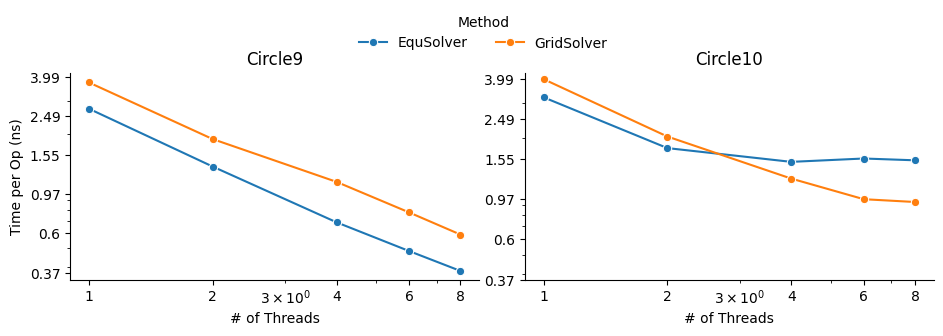
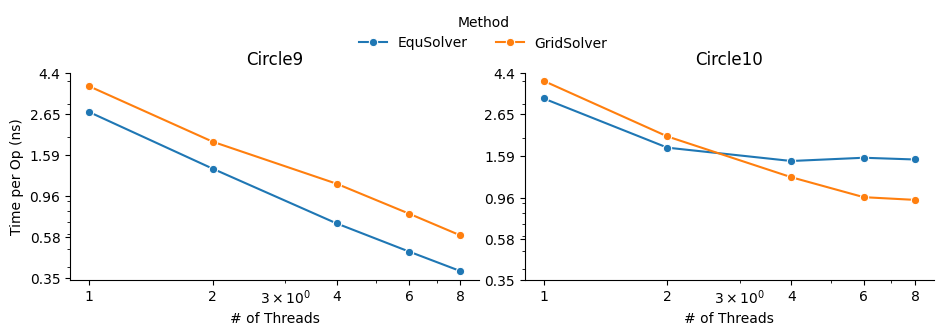
mpi ablation study plot and table

diff --git a/docs/image/plot.py b/docs/image/plot.py
@@ -117,8 +117,11 @@ def ablation(backend, new_col):
   base = []
   for i in [1, 2, 3, 4]:
     base.append(parse_table(raw[i], backend, new_col))
-  tmin = min([i[1] for i in base])
-  tmax = max([i[2] for i in base])
+  # tmin = min([i[1] for i in base])
+  # tmax = max([i[2] for i in base])
+  # print(tmin, tmax)
+  tmin = 0.35
+  tmax = 4.4
   data = pd.DataFrame(data)
   print(data)
   g = sns.FacetGrid(
@@ -151,3 +154,4 @@ def ablation(backend, new_col):
 if __name__ == '__main__':
   benchmark()
   ablation("openmp", "# of Threads")
+  ablation("mpi", "# of Workers")

diff --git a/docs/benchmark/README.md b/docs/benchmark/README.md
@@ -188,12 +188,45 @@ fpie -s circle10.png -t circle10.png -m circle10.png -o result.png -n 5000 -b op
 
 ### MPI
 
+![](https://github.com/Trinkle23897/Fast-Poisson-Image-Editing/raw/main/docs/image/mpi.png)
+
 
 Command to run:
 
 ```bash
+mpiexec -np 8 fpie -s circle10.png -t circle10.png -m circle10.png -o result.png -n 5000 -b mpi --method equ --mpi-sync-interval 100
+mpiexec -np 8 fpie -s circle10.png -t circle10.png -m circle10.png -o result.png -n 5000 -b mpi --method grid --mpi-sync-interval 100
 ```
 
+<!--mpi-->
+
+| circle9   | 1       | 2       | 4       | 6       | 8       |
+| --------- | ------- | ------- | ------- | ------- | ------- |
+| # of vars | 262338  | 262338  | 262338  | 262338  | 262338  |
+| EquSolver | 4.9217s | 2.4655s | 1.3378s | 0.9310s | 0.7996s |
+
+<!--mpi-->
+
+| circle9    | 1       | 2       | 4       | 6       | 8       |
+| ---------- | ------- | ------- | ------- | ------- | ------- |
+| # of vars  | 335241  | 335241  | 335241  | 335241  | 335241  |
+| GridSolver | 6.2136s | 3.1381s | 1.8817s | 1.3124s | 0.9822s |
+
+<!--mpi-->
+
+| circle10  | 1        | 2        | 4       | 6       | 8       |
+| --------- | -------- | -------- | ------- | ------- | ------- |
+| # of vars | 1049486  | 1049486  | 1049486 | 1049486 | 1049486 |
+| EquSolver | 22.1275s | 11.5566s | 8.2541s | 8.2208s | 8.3238s |
+
+<!--mpi-->
+
+| circle10   | 1        | 2        | 4       | 6       | 8       |
+| ---------- | -------- | -------- | ------- | ------- | ------- |
+| # of vars  | 1338649  | 1338649  | 1338649 | 1338649 | 1338649 |
+| GridSolver | 26.8360s | 13.6866s | 8.3945s | 6.6107s | 5.8929s |
+
+<!--mpi-->
 
 ### CUDA
 
